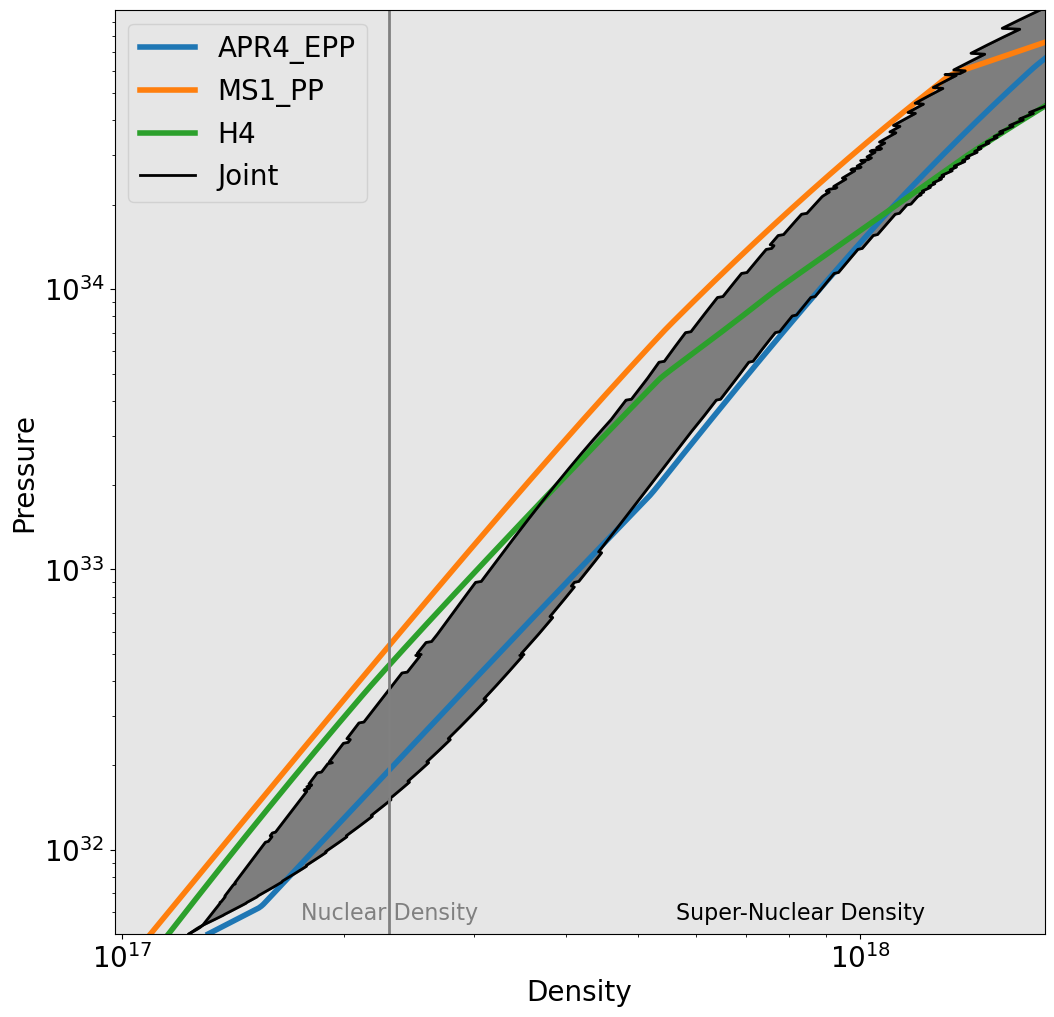
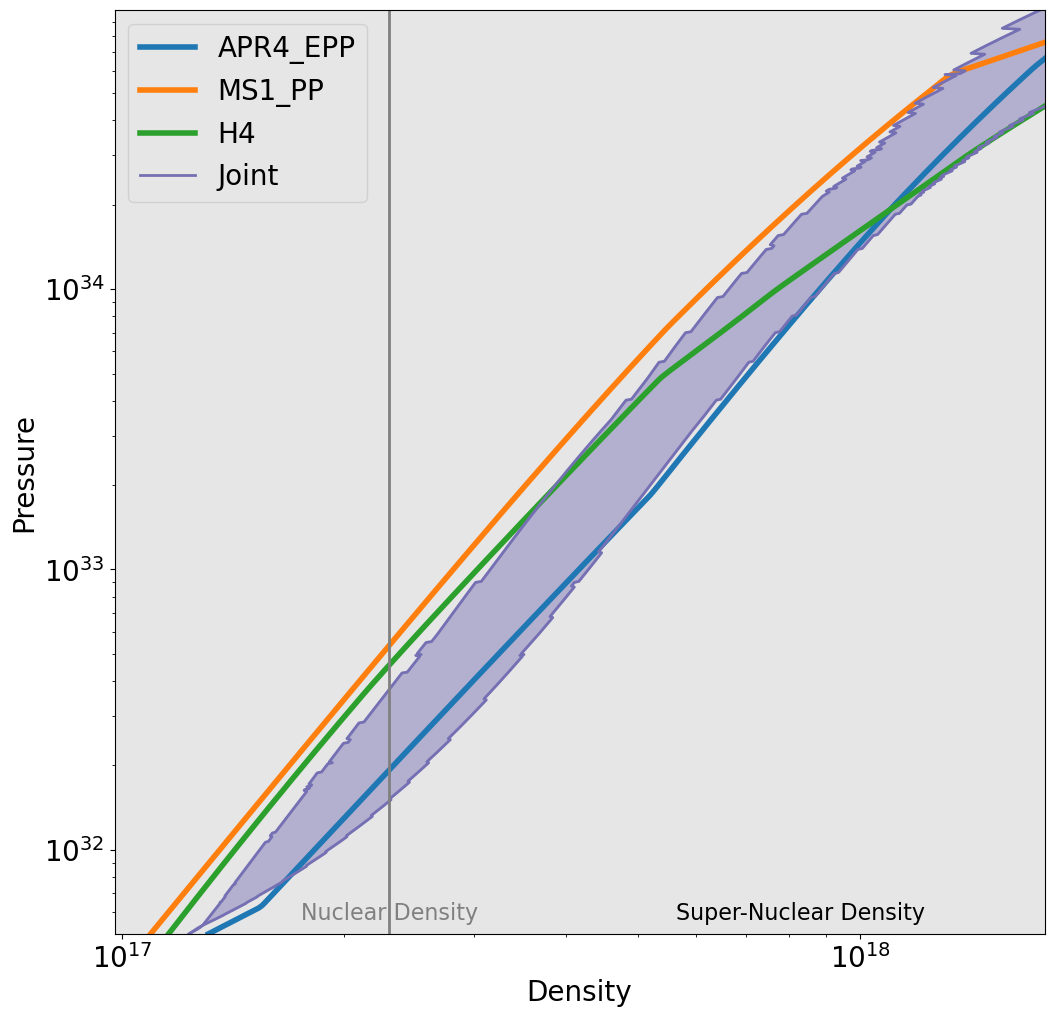
Final CASABONA plot revisions 34

Changed region(s): [[0.1822, 0.0, 1.0, 0.9145]]

diff --git a/joint_inference/development/SpringPresentation.py b/joint_inference/development/SpringPresentation.py
@@ -60,8 +60,8 @@ def overlap_namedEoS_constraint_p_rho(EoS_Names):
     File = "run_data/8th_cutoff_plotting/spectral_p_vs_rho_cutoff_W100_S10000_GW170817_J0030_hierarchical_confidence.txt"
     #label = "X-ray obs"
     label = "Joint"
-    #color = "#7570b3"
-    color = "#000000"
+    color = "#7570b3"
+    #color = "#000000"
     logp_grid, lower_bound, median, upper_bound = np.loadtxt(File).T
 
     ax1 = pl.gca()
